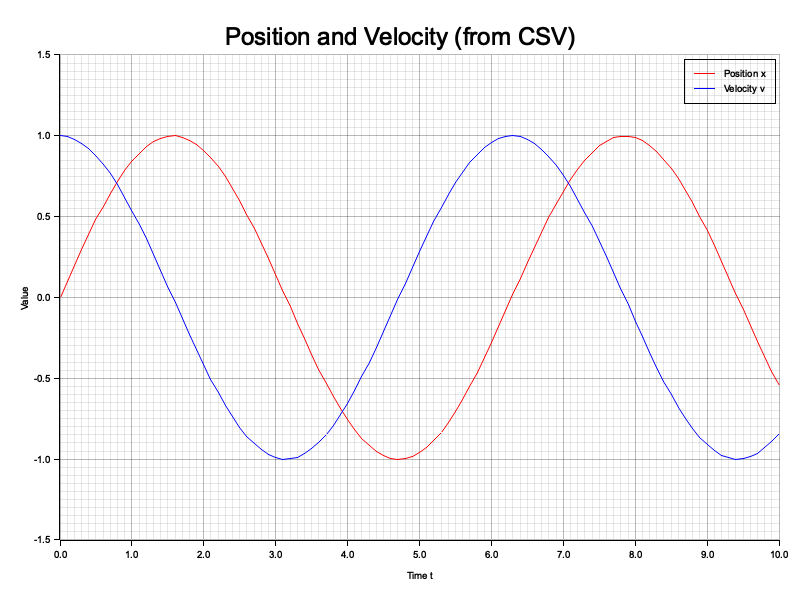
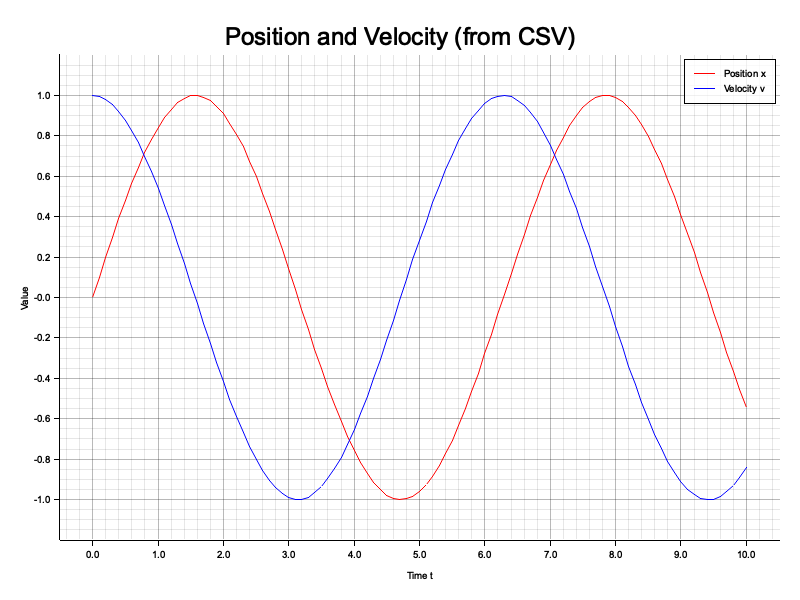
Improve CSV plotting examples

Changed region(s): [[0.0312, 0.09, 1.0, 0.93], [0.0312, 0.75, 0.0625, 0.78]]

diff --git a/csv_test/examples/plotting-multi.rs b/csv_test/examples/plotting-multi.rs
@@ -1,13 +1,56 @@
-use csv;
 use plotters::prelude::*;
 use std::error::Error;
 
-fn main() -> Result<(), Box<dyn Error>> {
-    // CSVからデータを読み込む
-    let mut reader = csv::Reader::from_path("output.csv")?;
-    let records: Vec<_> = reader.records().collect();
+// 定数定義
+const INPUT_CSV: &str = "output.csv";
+const OUTPUT_IMAGE: &str = "plot-multi.png";
+const IMAGE_WIDTH: u32 = 800;
+const IMAGE_HEIGHT: u32 = 600;
 
-    let root = BitMapBackend::new("plot-multi.png", (800, 600)).into_drawing_area();
+// データポイント構造体
+struct DataPoint {
+    t: f64,
+    x: f64,
+    v: f64,
+}
+
+fn main() -> Result<(), Box<dyn Error>> {
+    // CSVからデータを読み込み、構造化データとしてパース
+    let mut reader = csv::Reader::from_path(INPUT_CSV)?;
+    let data: Vec<DataPoint> = reader
+        .records()
+        .enumerate()
+        .map(|(i, result)| {
+            let record = result.map_err(|e| format!("行 {} の読み込みエラー: {e}", i + 2))?;
+            Ok(DataPoint {
+                t: record[0]
+                    .parse()
+                    .map_err(|e| format!("行 {} の時刻パースエラー: {e}", i + 2))?,
+                x: record[1]
+                    .parse()
+                    .map_err(|e| format!("行 {} の位置パースエラー: {e}", i + 2))?,
+                v: record[2]
+                    .parse()
+                    .map_err(|e| format!("行 {} の速度パースエラー: {e}", i + 2))?,
+            })
+        })
+        .collect::<Result<Vec<_>, String>>()?;
+
+    // 軸範囲の自動計算
+    let (t_min, t_max) = data.iter().fold((f64::MAX, f64::MIN), |(min, max), d| {
+        (min.min(d.t), max.max(d.t))
+    });
+    let (val_min, val_max) = data.iter().fold((f64::MAX, f64::MIN), |(min, max), d| {
+        (min.min(d.x).min(d.v), max.max(d.x).max(d.v))
+    });
+
+    // マージンを追加
+    let t_margin = (t_max - t_min) * 0.05;
+    let val_margin = (val_max - val_min) * 0.1;
+    let t_range = (t_min - t_margin)..(t_max + t_margin);
+    let val_range = (val_min - val_margin)..(val_max + val_margin);
+
+    let root = BitMapBackend::new(OUTPUT_IMAGE, (IMAGE_WIDTH, IMAGE_HEIGHT)).into_drawing_area();
     root.fill(&WHITE)?;
 
     let mut chart = ChartBuilder::on(&root)
@@ -15,7 +58,8 @@ fn main() -> Result<(), Box<dyn Error>> {
         .margin(20)
         .x_label_area_size(40)
         .y_label_area_size(40)
-        .build_cartesian_2d(0.0..10.0, -1.5..1.5)?;
+        .build_cartesian_2d(t_range, val_range)?;
+
     chart
         .configure_mesh()
         .x_desc("Time t")
@@ -23,43 +67,31 @@ fn main() -> Result<(), Box<dyn Error>> {
         .draw()?;
 
     // 位置 x のデータ系列
-    let pos_series = LineSeries::new(
-        records.iter().map(|r| {
-            let record = r.as_ref().unwrap();
-            (record[0].parse().unwrap(), record[1].parse().unwrap())
-        }),
-        &RED,
-    );
+    let pos_series = LineSeries::new(data.iter().map(|d| (d.t, d.x)), &RED);
 
     // 速度 v のデータ系列
-    let vel_series = LineSeries::new(
-        records.iter().map(|r| {
-            let record = r.as_ref().unwrap();
-            (record[0].parse().unwrap(), record[2].parse().unwrap())
-        }),
-        &BLUE,
-    );
+    let vel_series = LineSeries::new(data.iter().map(|d| (d.t, d.v)), &BLUE);
 
     // 系列を描画し、凡例を設定
     chart
         .draw_series(pos_series)?
         .label("Position x")
-        .legend(|(x, y)| PathElement::new(vec![(x, y), (x + 20, y)], &RED));
+        .legend(|(x, y)| PathElement::new(vec![(x, y), (x + 20, y)], RED));
 
     chart
         .draw_series(vel_series)?
         .label("Velocity v")
-        .legend(|(x, y)| PathElement::new(vec![(x, y), (x + 20, y)], &BLUE));
+        .legend(|(x, y)| PathElement::new(vec![(x, y), (x + 20, y)], BLUE));
 
     // 凡例の描画
     chart
         .configure_series_labels()
-        // 凡例の位置を右上に指定
         .position(SeriesLabelPosition::UpperRight)
-        .border_style(&BLACK)
+        .background_style(WHITE.mix(0.8))
+        .border_style(BLACK)
         .draw()?;
 
     root.present()?;
-    println!("plot-multi.png を生成しました");
+    println!("{OUTPUT_IMAGE} を生成しました");
     Ok(())
 }

diff --git a/csv_test/examples/plotting.rs b/csv_test/examples/plotting.rs
@@ -1,20 +1,59 @@
-use csv;
 use plotters::prelude::*;
 use std::error::Error;
 
+// 設定定数
+const INPUT_CSV: &str = "output.csv";
+const OUTPUT_IMAGE: &str = "plot-single.png";
+const IMAGE_WIDTH: u32 = 800;
+const IMAGE_HEIGHT: u32 = 600;
+
 fn main() -> Result<(), Box<dyn Error>> {
     // 1. CSVファイルからデータを読み込む
-    let mut reader = csv::Reader::from_path("output.csv")?;
+    let mut reader = csv::Reader::from_path(INPUT_CSV)?;
     let data: Vec<(f64, f64)> = reader
         .records()
-        .map(|r| {
-            let record = r.unwrap();
-            (record[0].parse().unwrap(), record[1].parse().unwrap())
+        .enumerate()
+        .map(|(i, r)| {
+            let record = r.map_err(|e| format!("行 {} の読み込みエラー: {e}", i + 1))?;
+            let t: f64 = record
+                .get(0)
+                .ok_or_else(|| format!("行 {}: 時刻データが存在しません", i + 1))?
+                .parse()
+                .map_err(|e| format!("行 {} の時刻パースエラー: {e}", i + 1))?;
+            let x: f64 = record
+                .get(1)
+                .ok_or_else(|| format!("行 {}: 位置データが存在しません", i + 1))?
+                .parse()
+                .map_err(|e| format!("行 {} の位置パースエラー: {e}", i + 1))?;
+            Ok((t, x))
         })
-        .collect();
+        .collect::<Result<Vec<_>, String>>()?;
+
+    // データが空の場合のチェック
+    if data.is_empty() {
+        return Err("CSVファイルにデータが含まれていません".into());
+    }
+
+    // 軸の範囲を自動計算
+    let (t_min, t_max) = data
+        .iter()
+        .fold((f64::MAX, f64::MIN), |(min, max), (t, _)| {
+            (min.min(*t), max.max(*t))
+        });
+    let (x_min, x_max) = data
+        .iter()
+        .fold((f64::MAX, f64::MIN), |(min, max), (_, x)| {
+            (min.min(*x), max.max(*x))
+        });
+
+    // マージンを追加
+    let t_margin = (t_max - t_min) * 0.05;
+    let x_margin = (x_max - x_min) * 0.1;
+    let t_range = (t_min - t_margin)..(t_max + t_margin);
+    let x_range = (x_min - x_margin)..(x_max + x_margin);
 
     // 2. 描画バックエンドをセットアップする
-    let root = BitMapBackend::new("plot-single.png", (800, 600)).into_drawing_area();
+    let root = BitMapBackend::new(OUTPUT_IMAGE, (IMAGE_WIDTH, IMAGE_HEIGHT)).into_drawing_area();
     root.fill(&WHITE)?;
 
     // 3. チャートを構築する
@@ -23,7 +62,7 @@ fn main() -> Result<(), Box<dyn Error>> {
         .margin(20)
         .x_label_area_size(40)
         .y_label_area_size(40)
-        .build_cartesian_2d(0.0..10.0, -1.5..1.5)?;
+        .build_cartesian_2d(t_range, x_range)?;
 
     // 4. メッシュ (軸とグリッド線) を描画する
     chart
@@ -37,6 +76,6 @@ fn main() -> Result<(), Box<dyn Error>> {
 
     // 6. ファイルに保存する
     root.present()?;
-    println!("plot-single.png を生成しました");
+    println!("{OUTPUT_IMAGE} を生成しました");
     Ok(())
 }
